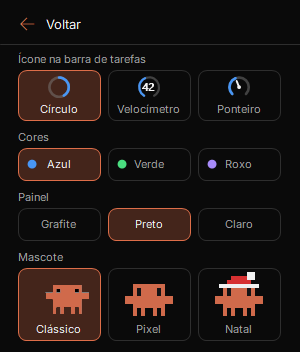
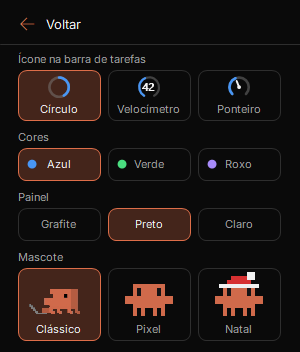
Thicken the Gauge line and rename the panel title
- Use a 1.75 pixel line around Gauge numbers in the taskbar
- Show the Classic mascot at its laptop in the selector
- Change the panel title to Claude Usage
- Bump the version to 1.5.6

Changed region(s): [[0.09, 0.8125, 0.3, 0.9062]]

diff --git a/src/TrayIcon.cs b/src/TrayIcon.cs
@@ -9,7 +9,6 @@ using System.Windows.Forms;
 static class TrayIcon
 {
     static readonly Color Track = Color.FromArgb(120, 128, 128, 128); // Reads on dark and light taskbars.
-    static readonly Color StrongTrack = Color.FromArgb(170, 128, 128, 128);
     static readonly Color DarkForeground = Color.FromArgb(32, 32, 32);
     const float DialStart = 135;
     const float DialSweep = 270;
@@ -54,7 +53,7 @@ static class TrayIcon
     const string PixelUnknown = ".###./#...#/....#/...#./..#../...../..#..";
     const string NarrowOne = "#/#/#/#/#/#/#"; // 100 has no room for full digits.
     const string NarrowZero = "###/#.#/#.#/#.#/#.#/#.#/###";
-    const float PixelGaugeStroke = 1.5f; // A thin line leaves the digits room inside the small dial.
+    const float PixelGaugeStroke = 1.75f; // A thin line leaves the digits room inside the small dial.
 
     // primary = 5-hour limit (white number); the weekly icon colors its number by level.
     public static Bitmap Draw(IconStyle style, int? percent, bool primary, bool stale, int size, bool onLight)
@@ -72,9 +71,9 @@ static class TrayIcon
             float gaugeStroke = box < size ? PixelGaugeStroke : Math.Max(1.75f, box * 0.1f);
             float stroke = style == IconStyle.Gauge ? gaugeStroke : Math.Max(2f, box * 0.12f);
 
-            if (style == IconStyle.Ring) DrawArc(g, box, stroke, RingStart, RingSweep, progress, color, false);
-            else if (style == IconStyle.Gauge) DrawArc(g, box, stroke, GaugeStart, GaugeSweep, progress, color, box < size);
-            else DrawArc(g, box, stroke, DialStart, DialSweep, progress, color, false);
+            if (style == IconStyle.Ring) DrawArc(g, box, stroke, RingStart, RingSweep, progress, color);
+            else if (style == IconStyle.Gauge) DrawArc(g, box, stroke, GaugeStart, GaugeSweep, progress, color);
+            else DrawArc(g, box, stroke, DialStart, DialSweep, progress, color);
 
             Color foreground = primary && !stale ? (onLight ? DarkForeground : Theme.TrayText) : color;
             if (style == IconStyle.Needle && percent.HasValue) DrawNeedle(g, box, progress, foreground);
@@ -92,20 +91,15 @@ static class TrayIcon
         return pen;
     }
 
-    // A line this thin falls between two pixels and fades, so a strong one is drawn twice to fill them in.
-    static void DrawArc(Graphics g, int size, float stroke, float start, float sweep, float progress, Color color, bool strong)
+    static void DrawArc(Graphics g, int size, float stroke, float start, float sweep, float progress, Color color)
     {
         float inset = stroke / 2;
         float diameter = size - inset * 2;
-        using (Pen track = NewRoundPen(strong ? StrongTrack : Track, stroke))
+        using (Pen track = NewRoundPen(Track, stroke))
             g.DrawArc(track, inset, inset, diameter, diameter, start, sweep);
         if (progress <= 0) return;
         using (Pen value = NewRoundPen(color, stroke))
-        {
-            float amount = sweep * Math.Max(MinimumProgress, progress);
-            g.DrawArc(value, inset, inset, diameter, diameter, start, amount);
-            if (strong) g.DrawArc(value, inset, inset, diameter, diameter, start, amount);
-        }
+            g.DrawArc(value, inset, inset, diameter, diameter, start, sweep * Math.Max(MinimumProgress, progress));
     }
 
     static void DrawNeedle(Graphics g, int size, float progress, Color color)

diff --git a/src/UsagePanel.cs b/src/UsagePanel.cs
@@ -75,6 +75,7 @@ class UsagePanel : Form
     const int ActionsTop = 274;
     const int ActionHeight = 46;
     const int MascotHeight = 42;
+    const string PanelTitle = "Claude Usage";
     const int SpinTickMs = 40;
     const int SelectedFill = 70; // Strong enough to stay orange over the panel background.
     const int MotionTickMs = 15;
@@ -241,7 +242,7 @@ class UsagePanel : Form
     {
         if (style != MascotStyle.Classic) return PixelMascot.Render(style, MascotMood.Idle, 1, MascotPixel);
         using (Mascot classic = Mascot.Load(Px(MascotHeight)))
-            return classic != null ? new Bitmap(classic.CurrentFrame) : null;
+            return classic != null ? new Bitmap(classic.LaptopFrame) : null;
     }
 
     int MascotPixel
@@ -773,7 +774,7 @@ class UsagePanel : Form
 
     void PaintMainPage(Graphics g, int left, int right)
     {
-        Draw(g, App.Name, titleFont, Theme.Text, left, Px(14), right - left, TextFormatFlags.Left);
+        Draw(g, PanelTitle, titleFont, Theme.Text, left, Px(14), right - left, TextFormatFlags.Left);
         int mascotSpace = mascot != null ? mascot.CurrentFrame.Width + Px(8) : 0;
         if (updateVersion == null) Draw(g, state.Status, tinyFont, Theme.Muted, left, Px(35), right - left - mascotSpace, TextFormatFlags.Left);
         if (mascot != null && targets == mainTargets)

diff --git a/src/Mascot.cs b/src/Mascot.cs
@@ -14,6 +14,7 @@ class Mascot : IMascot
     const int DefaultDelayMs = 100;
     const int MinimumDelayMs = 40;
     const int FrameDelayProperty = 0x5100;
+    const int LaptopFrameIndex = 24;
     const int EdgePasses = 2; // The dark outline is up to two pixels wide.
     const int BodyRed = 150; // Darker than this is outline, not the character's orange.
     const int LaptopGray = 80;
@@ -25,6 +26,7 @@ class Mascot : IMascot
 
     public int CurrentDelayMs { get { return delays[index]; } }
     public Bitmap CurrentFrame { get { return frames[index]; } }
+    public Bitmap LaptopFrame { get { return frames[LaptopFrameIndex]; } } // Shows the character at work, for the selector.
 
     public void Advance()
     {

diff --git a/src/App.cs b/src/App.cs
@@ -11,7 +11,7 @@ using System.Runtime.InteropServices;
 static class App
 {
     public const string Name = "Claude Usage Taskbar";
-    public const string Version = "1.5.5";
+    public const string Version = "1.5.6";
     public const string Id = "ClaudeUsageTaskbar";
     public const string ExeName = Id + ".exe";
 

diff --git a/CHANGELOG.md b/CHANGELOG.md
@@ -1,5 +1,11 @@
 # Changelog
 
+## 1.5.6
+
+- The panel title is now Claude Usage
+- A thicker line around the Gauge number in the taskbar
+- The Classic mascot appears at its laptop in the selector
+
 ## 1.5.5
 
 - A stronger line around the Gauge number in the taskbar
